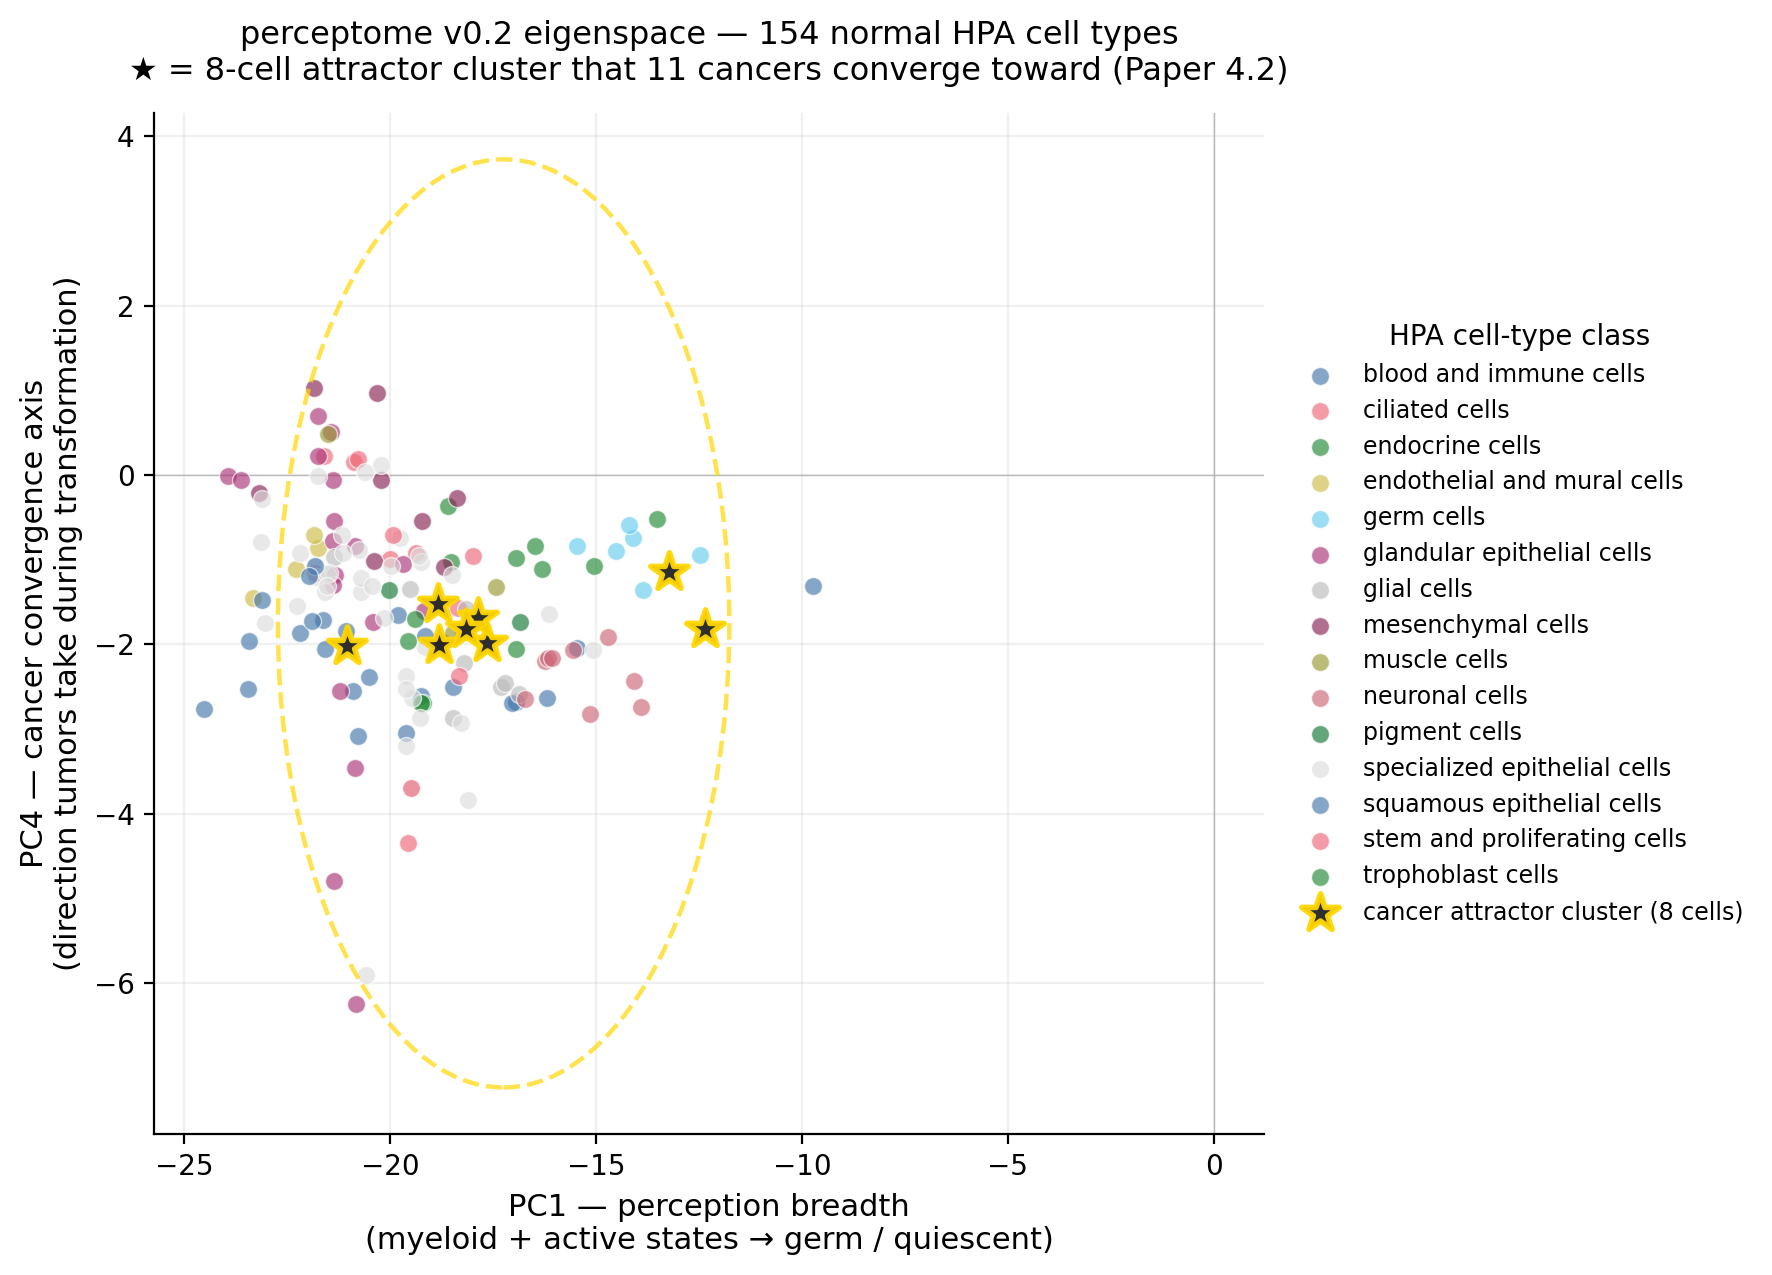
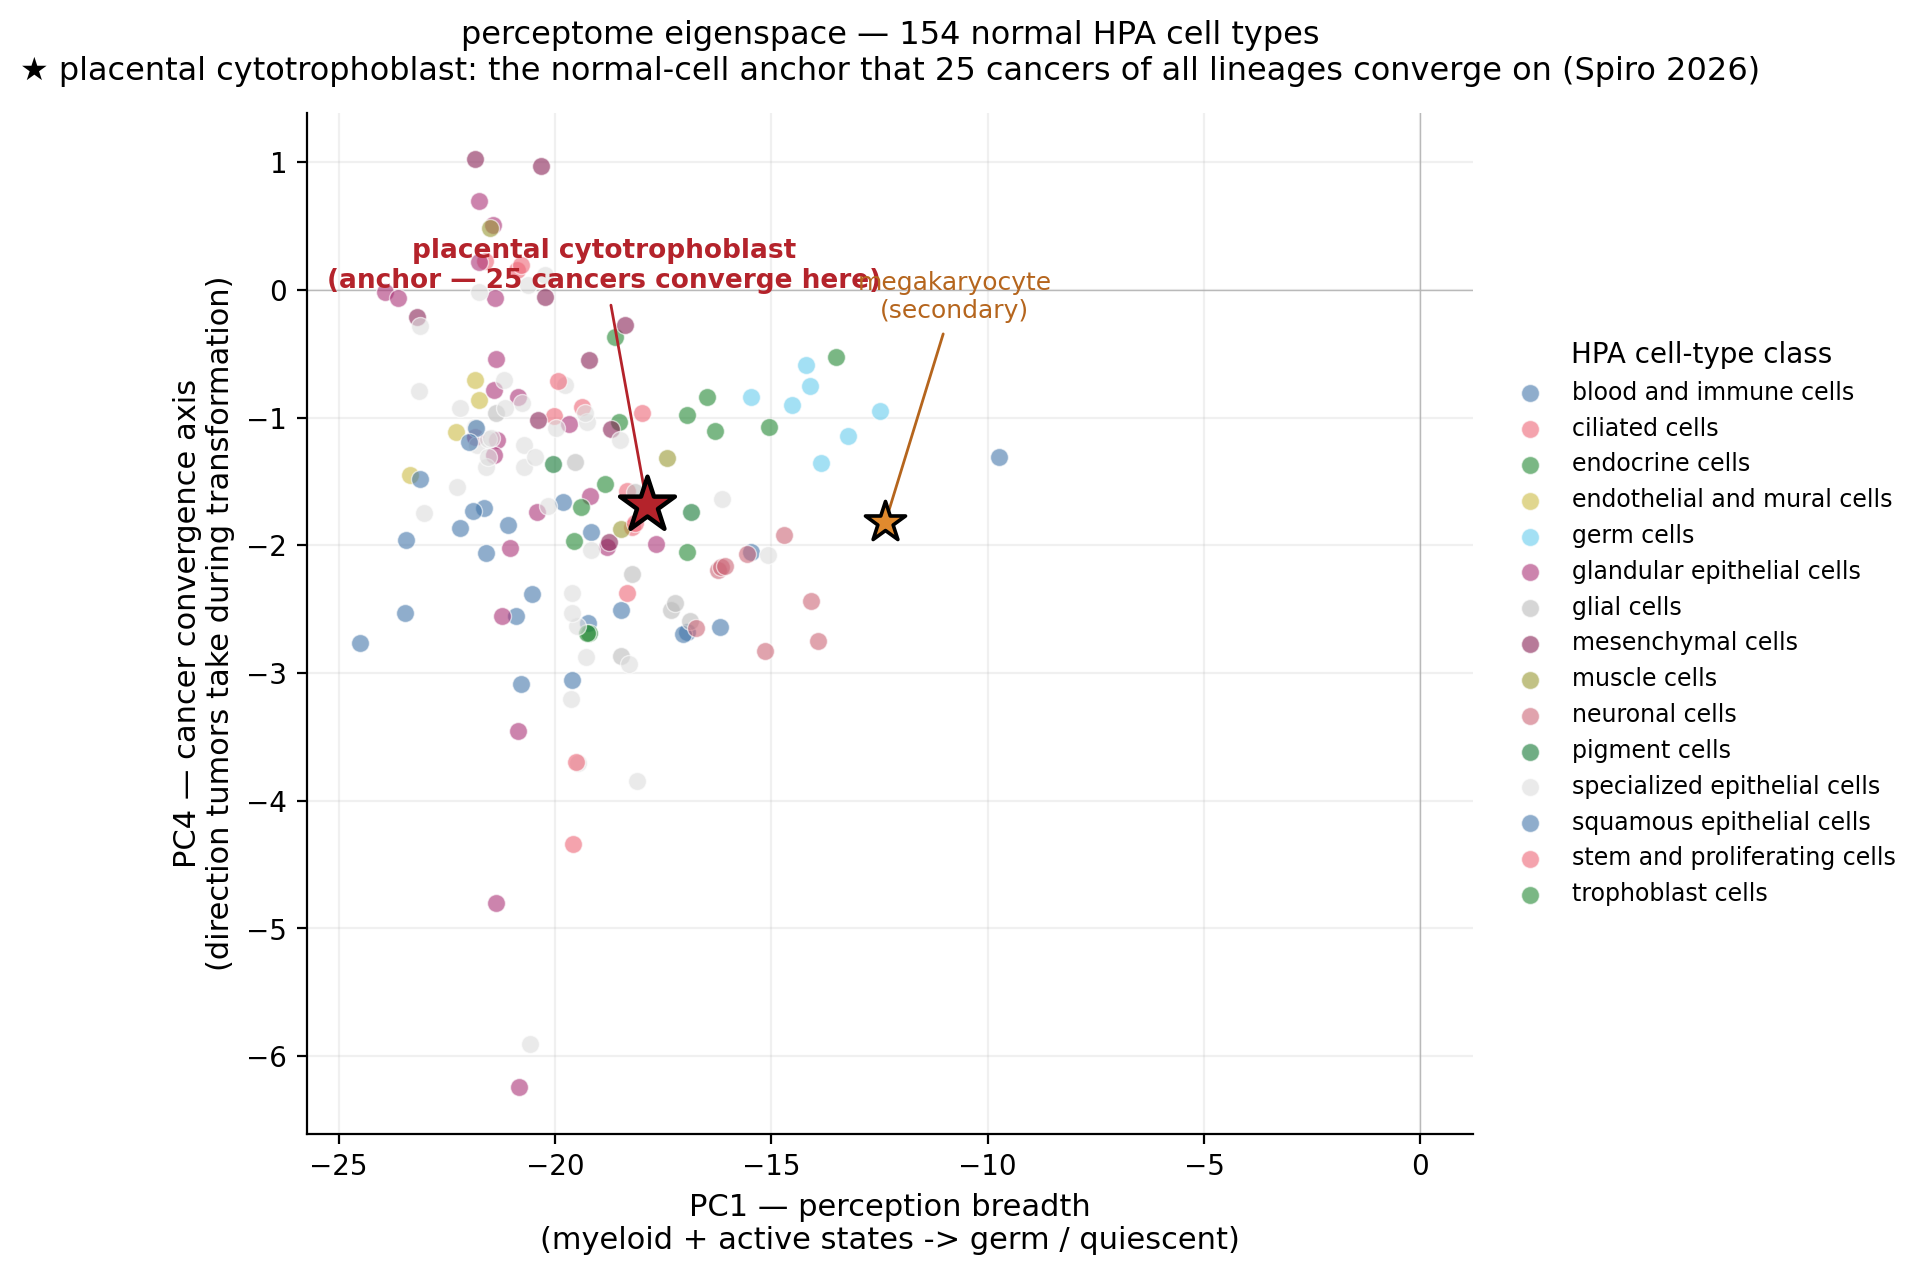
Regenerate hero figure for the cytotrophoblast convergence result
The PC1×PC4 eigenspace figure now marks the two-cell core of the published
result — the placental cytotrophoblast (anchor) and megakaryocyte (secondary) —
instead of the earlier 8-cell attractor cluster. Rebuilt from the bundled v0.2
normal-cell reference (script 09 updated); the 25-cancer convergence is
attributed to Spiro 2026 (Zenodo 10.5281/zenodo.20542130). README caption updated.

diff --git a/scripts/09_build_eigenspace_figure.py b/scripts/09_build_eigenspace_figure.py
@@ -1,25 +1,26 @@
-"""Generate the README hero figure: PC1 × PC4 HPA cell-type scatter with attractor cluster marked.
+"""Generate the README hero figure: PC1 x PC4 HPA cell-type scatter with the
+cancer-convergence core marked.
 
-PC1 = perception breadth (paper 3 Figure 1B axis: myeloid+ to germ−)
-PC4 = cancer convergence axis (paper 4.2 Figure 2 axis)
+PC1 = perception breadth (paper 3 Figure 1B axis: myeloid+ to germ-)
+PC4 = cancer convergence axis
 
-The 8-cell attractor cluster (paper 4.2 P3) is highlighted with larger
-markers + black outline + labels — visually demonstrates the central
-finding: cancers converge on a non-origin set of "active state"
-normal cell types.
+The published convergence result (Spiro 2026, Zenodo 10.5281/zenodo.20542130):
+malignant cells of 25 cancers of all lineages converge on the placental
+cytotrophoblast -- a normal invasive cell state -- with the megakaryocyte a
+lineage-restricted secondary. This figure marks that two-cell core (anchor +
+secondary) within the broader "active state" convergence neighbourhood, using
+the bundled v0.2 normal-cell eigenspace (the tool's 154 x 44 HPA reference).
 
 Output:
-  examples/figures/eigenspace_pc1_pc4.png  (300 dpi, ~50 KB)
+  examples/figures/eigenspace_pc1_pc4.png  (~200 dpi)
 """
 
-import json
 import sys
 from pathlib import Path
 
 import matplotlib
 matplotlib.use("Agg")
 import matplotlib.pyplot as plt
-import numpy as np
 
 sys.path.insert(0, str(Path(__file__).resolve().parents[1]))
 
@@ -36,86 +37,72 @@ PALETTE = [
     "#117733", "#DDDDDD",
 ]
 
+ANCHOR = "cytotrophoblasts"        # placental cytotrophoblast — the convergence anchor
+SECONDARY = "megakaryocytes"       # lineage-restricted secondary
+
 
 def main():
-    print("Loading HPA reference + projecting to v0.3 eigenspace...")
+    print("Loading HPA reference + projecting to eigenspace...")
     ref = pct.load_hpa_perceptivity()
     R = ref["R"]
     klass = ref["cell_type_class"]
-
-    proj = pct.project(R)
-    coords = proj["coordinates"]
+    coords = pct.project(R)["coordinates"]
     print(f"  projected {len(coords)} cell types into {coords.shape[1]} PCs")
 
-    print("Loading attractor cluster...")
-    attr = pct.load_attractor_direction()
-    cluster_cells = attr["attractor_cluster_cells"]
-    print(f"  attractor cells: {cluster_cells}")
-    cluster_present = [c for c in cluster_cells if c in coords.index]
-    print(f"  present in HPA: {len(cluster_present)}")
+    core = [c for c in (ANCHOR, SECONDARY) if c in coords.index]
+    if len(core) < 2:
+        raise SystemExit(f"core cells not found in HPA reference: have {core}")
 
     fig, ax = plt.subplots(figsize=(9, 6.5), dpi=150)
 
     classes = sorted(klass.unique())
     color_map = {c: PALETTE[i % len(PALETTE)] for i, c in enumerate(classes)}
 
-    is_attractor = coords.index.isin(cluster_present)
+    is_core = coords.index.isin(core)
     for c in classes:
-        mask = (klass == c) & ~is_attractor
-        ct_in_class = coords.index[mask & (klass == c)]
-        if len(ct_in_class) == 0:
+        ct = coords.index[(klass == c) & ~is_core]
+        if len(ct) == 0:
             continue
-        sub = coords.loc[ct_in_class]
-        ax.scatter(
-            sub["PC1"], sub["PC4"],
-            s=42, alpha=0.65,
-            color=color_map[c], edgecolor="white", linewidth=0.5,
-            label=c, zorder=2,
-        )
+        sub = coords.loc[ct]
+        ax.scatter(sub["PC1"], sub["PC4"], s=42, alpha=0.6,
+                   color=color_map[c], edgecolor="white", linewidth=0.5,
+                   label=c, zorder=2)
 
-    if cluster_present:
-        sub_attr = coords.loc[cluster_present]
-        ax.scatter(
-            sub_attr["PC1"], sub_attr["PC4"],
-            s=200, alpha=0.95,
-            color="#222222", edgecolor="#FFD700", linewidth=2.0,
-            label="cancer attractor cluster (8 cells)", zorder=4, marker="*",
-        )
-
-        # Compute cluster centroid + draw a circle to highlight grouping
-        cx, cy = sub_attr["PC1"].mean(), sub_attr["PC4"].mean()
-        from matplotlib.patches import Circle
-        radius = max(
-            np.sqrt((sub_attr["PC1"] - cx)**2 + (sub_attr["PC4"] - cy)**2).max() + 0.6,
-            1.5,
-        )
-        circle = Circle((cx, cy), radius, fill=False, ec="#FFD700", lw=1.6, ls="--", alpha=0.7, zorder=3)
-        ax.add_patch(circle)
+    # The two-cell core: anchor (large) + secondary (medium)
+    a = coords.loc[ANCHOR]
+    s = coords.loc[SECONDARY]
+    ax.scatter([a["PC1"]], [a["PC4"]], s=430, color="#B4232B", edgecolor="black",
+               linewidth=1.6, marker="*", zorder=6)
+    ax.scatter([s["PC1"]], [s["PC4"]], s=230, color="#E08A2E", edgecolor="black",
+               linewidth=1.3, marker="*", zorder=6)
+    ax.annotate("placental cytotrophoblast\n(anchor — 25 cancers converge here)",
+                xy=(a["PC1"], a["PC4"]), xytext=(a["PC1"] - 1.0, a["PC4"] + 1.7),
+                ha="center", fontsize=9.5, fontweight="bold", color="#B4232B",
+                arrowprops=dict(arrowstyle="-", color="#B4232B", lw=1.0))
+    ax.annotate("megakaryocyte\n(secondary)",
+                xy=(s["PC1"], s["PC4"]), xytext=(s["PC1"] + 1.6, s["PC4"] + 1.6),
+                ha="center", fontsize=9, color="#B5651D",
+                arrowprops=dict(arrowstyle="-", color="#B5651D", lw=1.0))
 
     ax.axhline(0, color="#bbbbbb", lw=0.5, zorder=1)
     ax.axvline(0, color="#bbbbbb", lw=0.5, zorder=1)
-    ax.set_xlabel("PC1 — perception breadth\n(myeloid + active states → germ / quiescent)", fontsize=11)
+    ax.set_xlabel("PC1 — perception breadth\n(myeloid + active states -> germ / quiescent)", fontsize=11)
     ax.set_ylabel("PC4 — cancer convergence axis\n(direction tumors take during transformation)", fontsize=11)
     ax.set_title(
-        "perceptome v0.2 eigenspace — 154 normal HPA cell types\n"
-        "★ = 8-cell attractor cluster that 11 cancers converge toward (Paper 4.2)",
+        "perceptome eigenspace — 154 normal HPA cell types\n"
+        "★ placental cytotrophoblast: the normal-cell anchor that 25 cancers "
+        "of all lineages converge on (Spiro 2026)",
         fontsize=11.5, pad=12,
     )
-
-    # Side legend (cell type classes)
-    ax.legend(
-        loc="center left", bbox_to_anchor=(1.01, 0.5),
-        fontsize=8.5, frameon=False,
-        title="HPA cell-type class",
-    )
-
+    ax.legend(loc="center left", bbox_to_anchor=(1.01, 0.5), fontsize=8.5,
+              frameon=False, title="HPA cell-type class")
     ax.grid(True, alpha=0.18, zorder=0)
     ax.spines["top"].set_visible(False)
     ax.spines["right"].set_visible(False)
 
     plt.tight_layout()
     plt.savefig(OUT, dpi=200, bbox_inches="tight")
-    print(f"\n  wrote {OUT} ({OUT.stat().st_size / 1024:.1f} KB)")
+    print(f"  wrote {OUT} ({OUT.stat().st_size / 1024:.1f} KB)")
 
 
 if __name__ == "__main__":

diff --git a/README.md b/README.md
@@ -43,9 +43,9 @@ That's the geometry workflow. There are three more — see the tutorial.
 
 ## What you get — the eigenspace at a glance
 
-![perceptome eigenspace: 154 HPA cell types in PC1 × PC4 with the cancer attractor cluster marked](examples/figures/eigenspace_pc1_pc4.png)
+![perceptome eigenspace: 154 normal HPA cell types in PC1 × PC4 with the placental cytotrophoblast (anchor) and megakaryocyte (secondary) marked](examples/figures/eigenspace_pc1_pc4.png)
 
-154 normal human cell types from the Human Protein Atlas, projected into the 9-PC perceptome eigenspace and shown along **PC1 (perception breadth)** and **PC4 (cancer convergence axis)**. The dashed circle marks the **v0.2 cancer attractor** — a cluster of "active state" non-origin normal cell types that cancers converge toward during transformation, and the reference the tool currently bundles. The finding has since been substantially extended and published: **25 cancers of all lineages converge on the placental cytotrophoblast**, a normal invasive cell state that malignancy deepens ~6× within matched tumor–normal pairs — [Zenodo 10.5281/zenodo.20542130](https://doi.org/10.5281/zenodo.20542130). That refined direction folds into the bundled reference at v0.4. *(This figure shows the v0.2 attractor and will be regenerated for the cytotrophoblast result at v0.4.)*
+154 normal human cell types from the Human Protein Atlas, projected into the 9-PC perceptome eigenspace and shown along **PC1 (perception breadth)** and **PC4 (cancer convergence axis)**. The stars mark the **two-cell core** of the published convergence result: the **placental cytotrophoblast** (anchor) and the **megakaryocyte** (lineage-restricted secondary). Malignant cells of **25 cancers of all lineages converge on the cytotrophoblast** — a normal invasive cell state that malignancy deepens ~6× within matched tumor–normal pairs — [Zenodo 10.5281/zenodo.20542130](https://doi.org/10.5281/zenodo.20542130). *(The eigenspace shown is the tool's bundled v0.2 normal-cell reference; the convergence result is Spiro 2026, folding into the bundled cancer direction at v0.4.)*
 
 Any new cell — yours, a tumor cell, a drug-treated cell — projects into the same coordinate system and can be compared directly to all 154 reference cells and to known directions (cancer attractor, disease vectors, aging axes).
 
